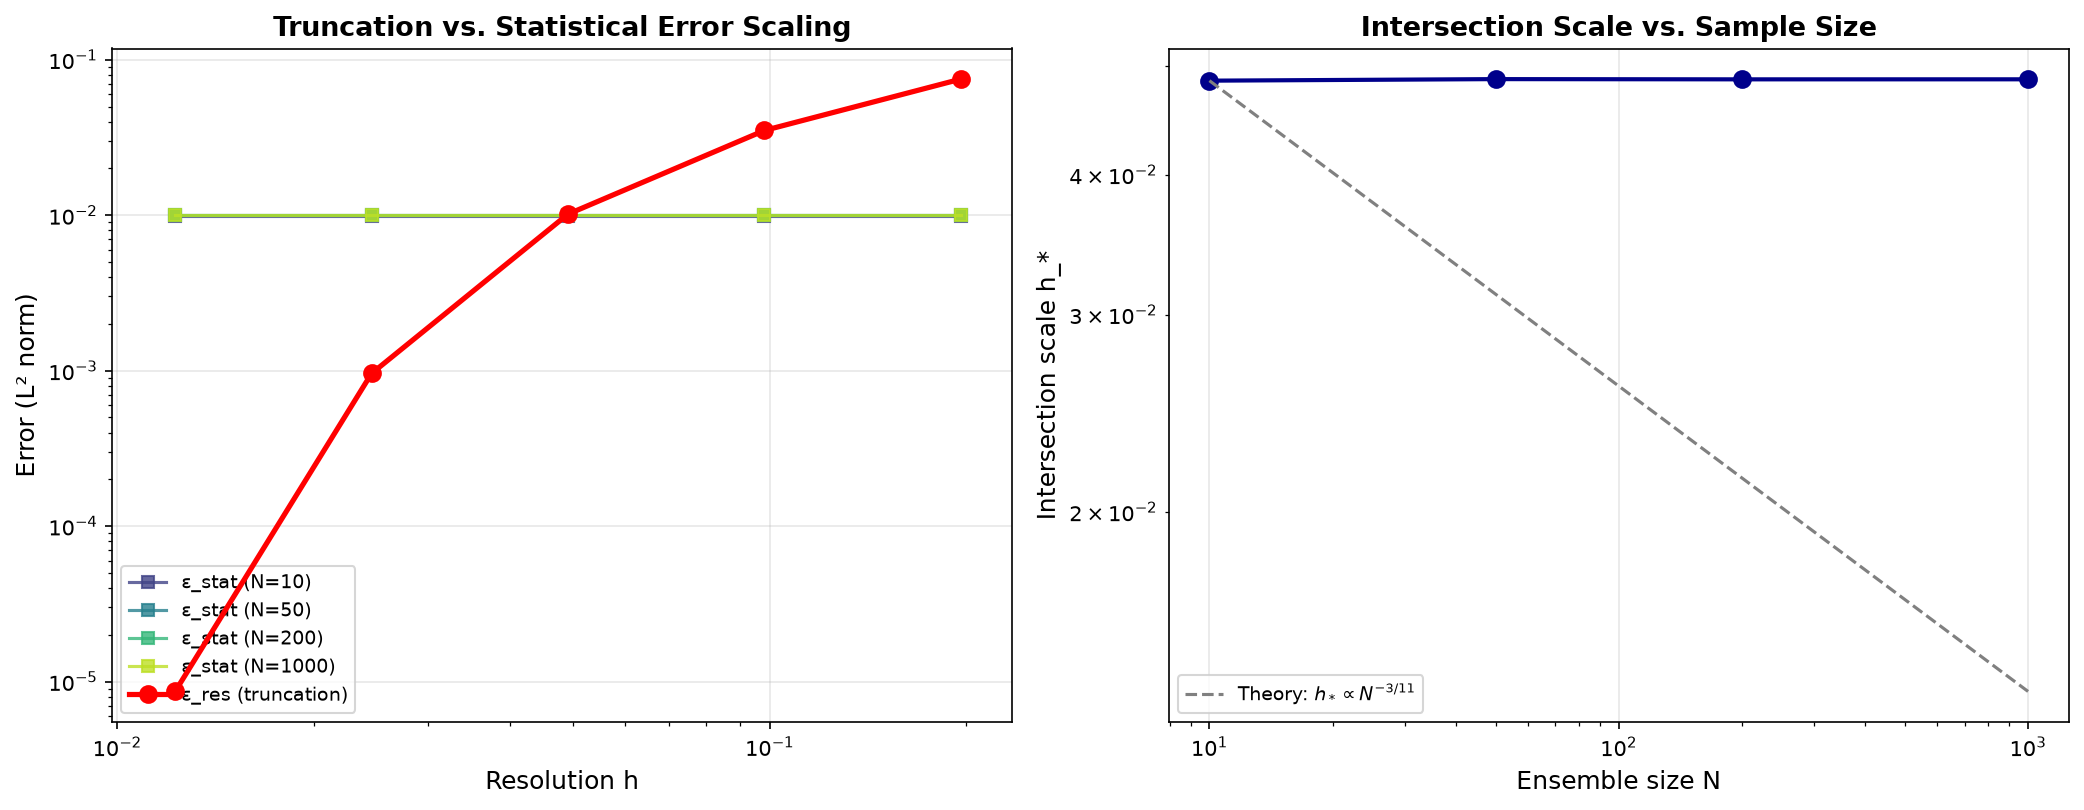
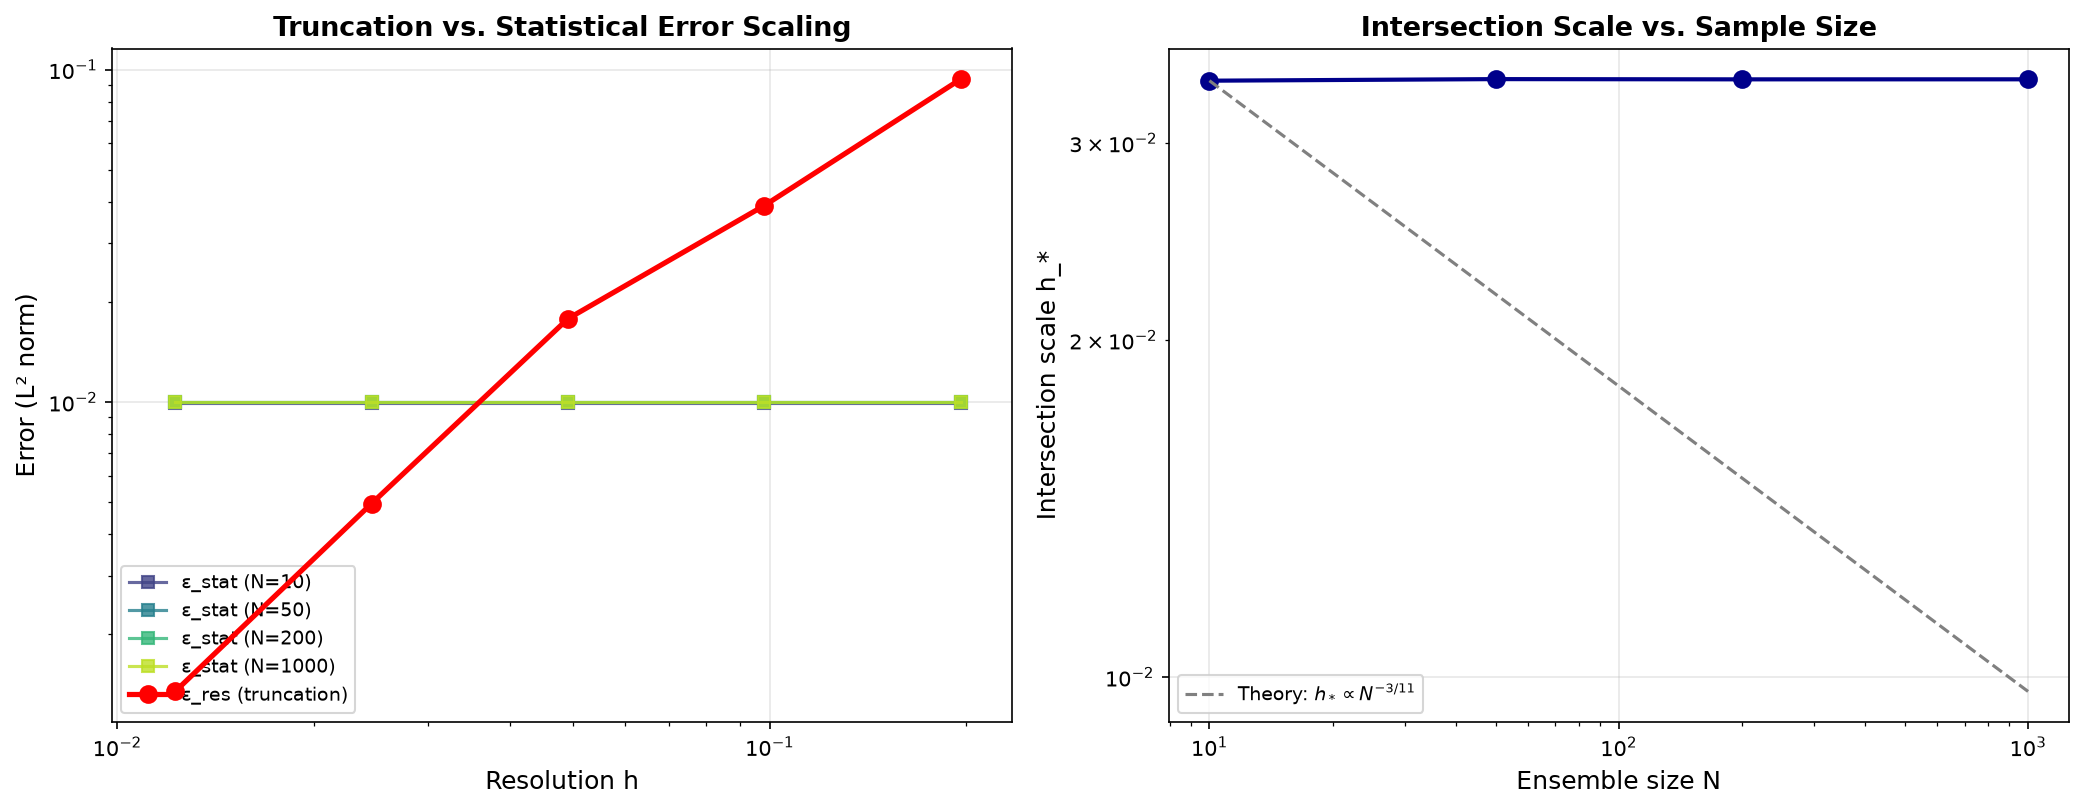
fix: Burgers coarse_grain dimension bug — spectral truncate + spatial resample to n_coarse

diff --git a/theory/explorations/verify_turbulence.py b/theory/explorations/verify_turbulence.py
@@ -261,19 +261,22 @@ def initial_gaussian_random(n_grid, length=LENGTH, correlation_length=1.0, seed=
 def coarse_grain(u_fine, n_coarse):
     """
     Coarse-graining operator C_h: downsample from fine to coarse grid.
-    Uses spectral truncation (ideal low-pass filter) as the cleanest
-    implementation of the resolution limit.
+    Uses spectral truncation (ideal low-pass filter) then spatial resampling.
     """
     u_hat = fft(u_fine)
     n_fine = len(u_fine)
     # Spectral truncation: keep only the first n_coarse//2 modes
-    u_hat_truncated = np.zeros(n_fine, dtype=complex)
+    u_hat_trunc = np.zeros(n_fine, dtype=complex)
     cutoff = n_coarse // 2
-    u_hat_truncated[:cutoff] = u_hat[:cutoff]
-    u_hat_truncated[-(cutoff - 1):] = u_hat[-(cutoff - 1):]
+    u_hat_trunc[:cutoff] = u_hat[:cutoff]
+    u_hat_trunc[-(cutoff - 1):] = u_hat[-(cutoff - 1):]
     if n_coarse % 2 == 0:
-        u_hat_truncated[cutoff] = 0.0  # remove Nyquist
-    return np.real(ifft(u_hat_truncated))
+        u_hat_trunc[cutoff] = 0.0
+    u_filtered = np.real(ifft(u_hat_trunc))
+    # Spatial resample to n_coarse points
+    x_fine = np.linspace(0, LENGTH, n_fine, endpoint=False)
+    x_coarse = np.linspace(0, LENGTH, n_coarse, endpoint=False)
+    return np.interp(x_coarse, x_fine, u_filtered)
 
 
 def coarse_grain_gaussian(u_fine, h):
@@ -363,8 +366,11 @@ def experiment1_truncation_statistical_intersection():
     for n_grid in RESOLUTIONS:
         print(f"  Resolution N={n_grid} (h={2*np.pi/n_grid:.4f})...")
 
-        # Coarse-grain the reference solution
-        u_coarse = coarse_grain(u_ref, n_grid)
+        # Coarse-grain the reference solution, then upsample for comparison
+        u_coarse_raw = coarse_grain(u_ref, n_grid)
+        x_fine = np.linspace(0, LENGTH, len(u_ref), endpoint=False)
+        x_coarse = np.linspace(0, LENGTH, n_grid, endpoint=False)
+        u_coarse = np.interp(x_fine, x_coarse, u_coarse_raw)
 
         # Compute ε_res: L2 difference between coarse and reference
         # (both evaluated on the fine grid for comparison)